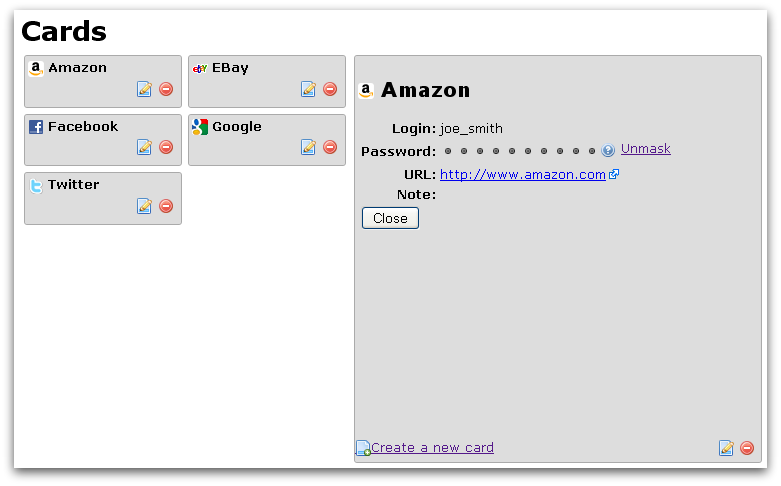
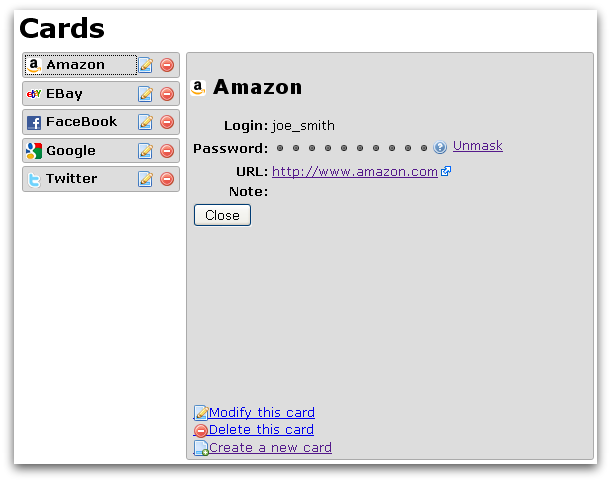
revamped the look of the cards list, in order to take les vertical and horizontal space added deploy task to ant build

Changed region(s): [[0.0, 0.0311, 0.9951, 0.9647]]

diff --git a/war/css/main.css b/war/css/main.css
@@ -134,7 +134,6 @@ img {
  */
 div#cards {
   padding: 0;
-  min-width: 330px;
   float: left;
 }
 div.card, div#cardDetails, div#features, div#resume {
@@ -147,7 +146,8 @@ div.card, div#cardDetails, div#features, div#resume {
 }
 div.card {
   min-width: 150px;
-  float: left;
+  max-width: 290px;
+  position: relative;
 }
 div#cardDetails {
   min-width: 400px;
@@ -155,7 +155,7 @@ div#cardDetails {
   float: left;
   position: relative;
 }
-div#cardDetails h2 a{
+div#cardDetails h2 a {
   text-decoration: none;
 }
 div.spacer {
@@ -169,8 +169,15 @@ div.card a {
   text-decoration: none;
   color: black;
 }
+#body div.cardName {
+  margin-right: 40px;
+  padding: 0;
+}
 div.cardLinks {
   text-align: right;
+  position: absolute;
+  top: 0;
+  right: 0;
 }
 div.cardLinks a {
   display: inline;
@@ -184,7 +191,6 @@ div.cardLinks a img:hover {
 div#cardDetailsLinks {
   position: absolute;
   bottom: 0px;
-  right: 0px;
   width: 100%;
 }
 img.cardIcon, img.loading, img.icon {

diff --git a/test/src/com/googlecode/memwords/web/integration/cards/CardDetailsTest.java b/test/src/com/googlecode/memwords/web/integration/cards/CardDetailsTest.java
@@ -73,12 +73,12 @@ public class CardDetailsTest {
 
         // the details div content has been replaced by the create card form
         getFirstLinkByText(page.getHtmlElementById("cards"), "card1").click();
-        HtmlAnchor modifyLink = getFirstLinkByTitle(detailsDiv, "Modify this card");
+        HtmlAnchor modifyLink = getFirstLinkByText(detailsDiv, "Modify this card");
         modifyLink.click();
         assertNotNull(page.getHtmlElementById("modifyCardForm"));
 
         getFirstLinkByText(page.getHtmlElementById("cards"), "card1").click();
-        HtmlAnchor deleteLink = getFirstLinkByTitle(detailsDiv, "Delete this card");
+        HtmlAnchor deleteLink = getFirstLinkByText(detailsDiv, "Delete this card");
         deleteLink.click();
         assertNotNull(page.getHtmlElementById("deleteCardForm"));
     }
@@ -104,11 +104,11 @@ public class CardDetailsTest {
         HtmlPage createPage = createLink.click();
         testTitle(createPage, "Create a card");
 
-        HtmlAnchor modifyLink = getFirstLinkByTitle(detailsDiv, "Modify this card");
+        HtmlAnchor modifyLink = getFirstLinkByText(detailsDiv, "Modify this card");
         HtmlPage modifyPage = modifyLink.click();
         testTitle(modifyPage, "Modify a card");
 
-        HtmlAnchor deleteLink = getFirstLinkByTitle(detailsDiv, "Delete this card");
+        HtmlAnchor deleteLink = getFirstLinkByText(detailsDiv, "Delete this card");
         HtmlPage deletePage = deleteLink.click();
         testTitle(deletePage, "Delete a card");
     }
